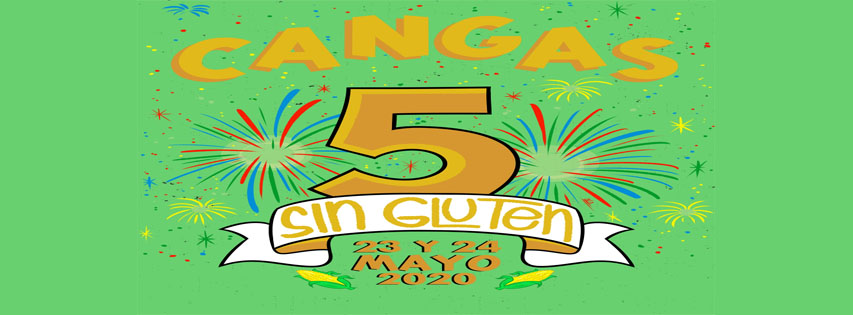
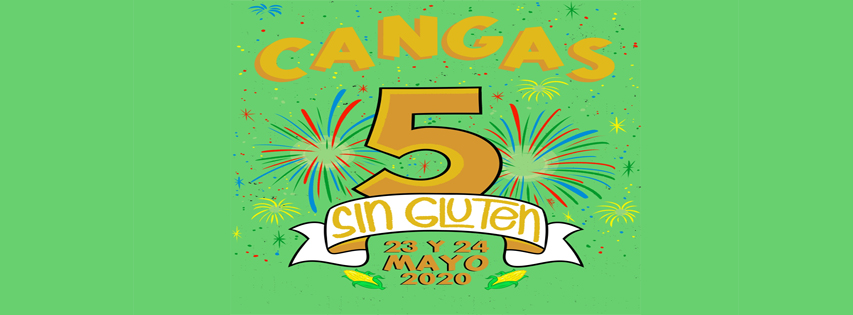
new cabecera

diff --git a/vjornadas.html b/vjornadas.html
@@ -98,15 +98,21 @@
 								</article>
 								<article>
 									<header>
-										<h2>Sabado 23<br> Degustación </h2>
+										<h2>Sabado 23<br> Actividades turísticas </h2>
 									</header>
-									<a href="#" class="image fit"><img class="image fit" src="/images/vjornadas/degustacion.JPG" alt="Celicidad" /></a>
+									<a href="#" class="image fit"><img class="image fit" src="/images/vjornadas/actividades.jpg" alt="Celicidad" /></a>
 								</article>
 								<article>
 									<header>
 										<h2>Sábado 23 y Domingo 24<br> Restaurantes participantes</h2>
 									</header>
 									<a href="#" class="image fit"><img src="/images/vjornadas/restaurantes.jpg" alt="" /></a>
+								</article>
+								<article>
+									<header>
+										<h2>Sabado 23<br> Degustación </h2>
+									</header>
+									<a href="#" class="image fit"><img class="image fit" src="/images/vjornadas/degustacion.JPG" alt="Celicidad" /></a>
 								</article>
 							</section>
 					</div>
